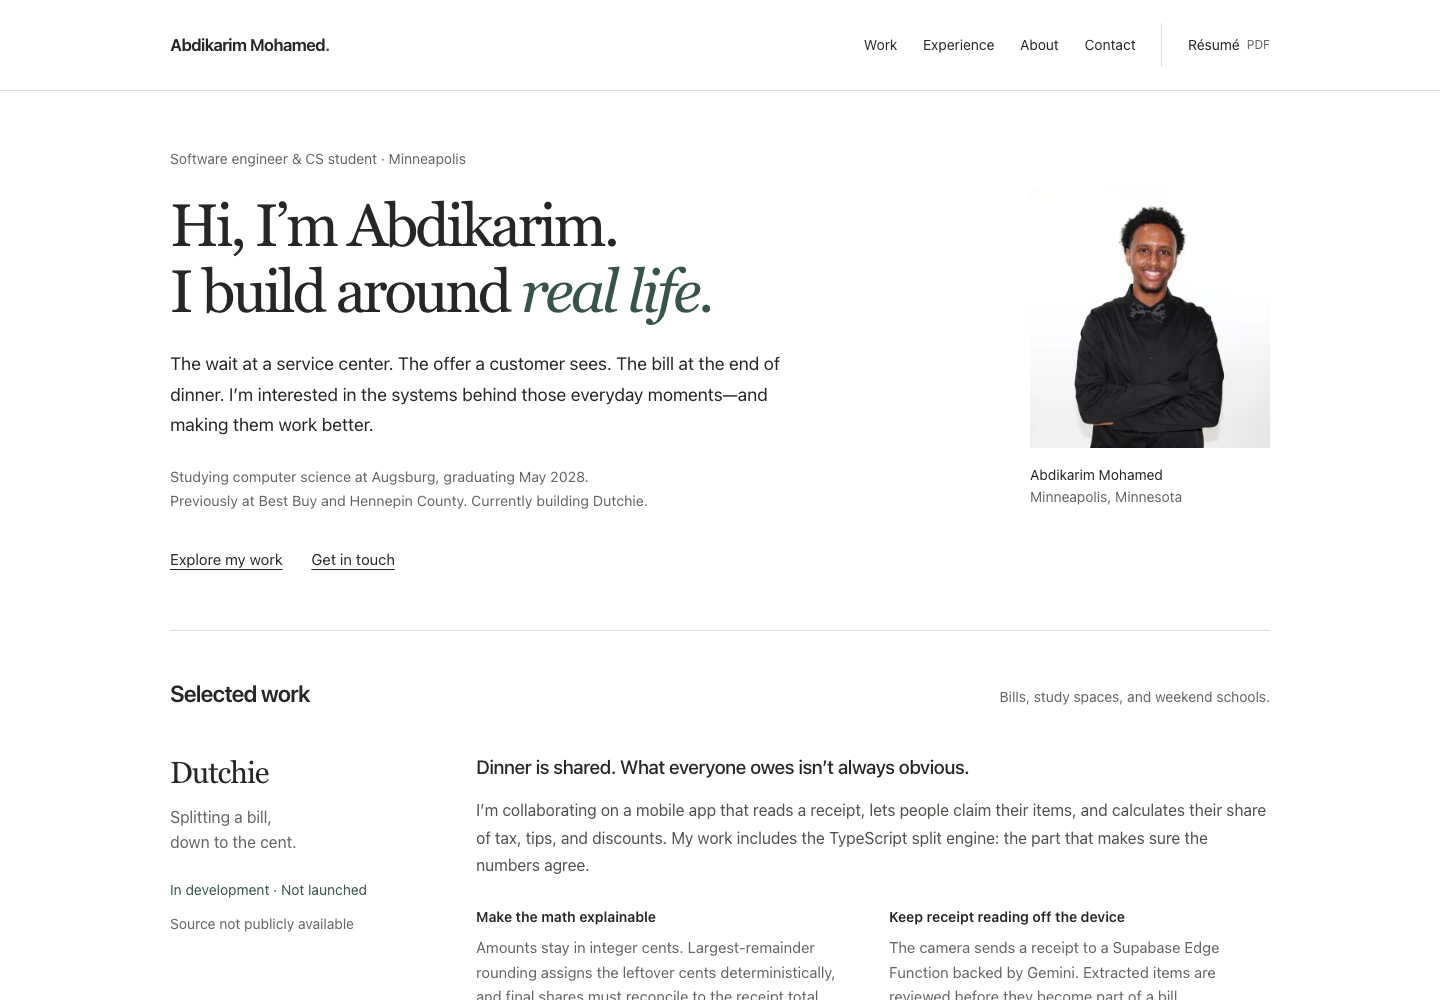
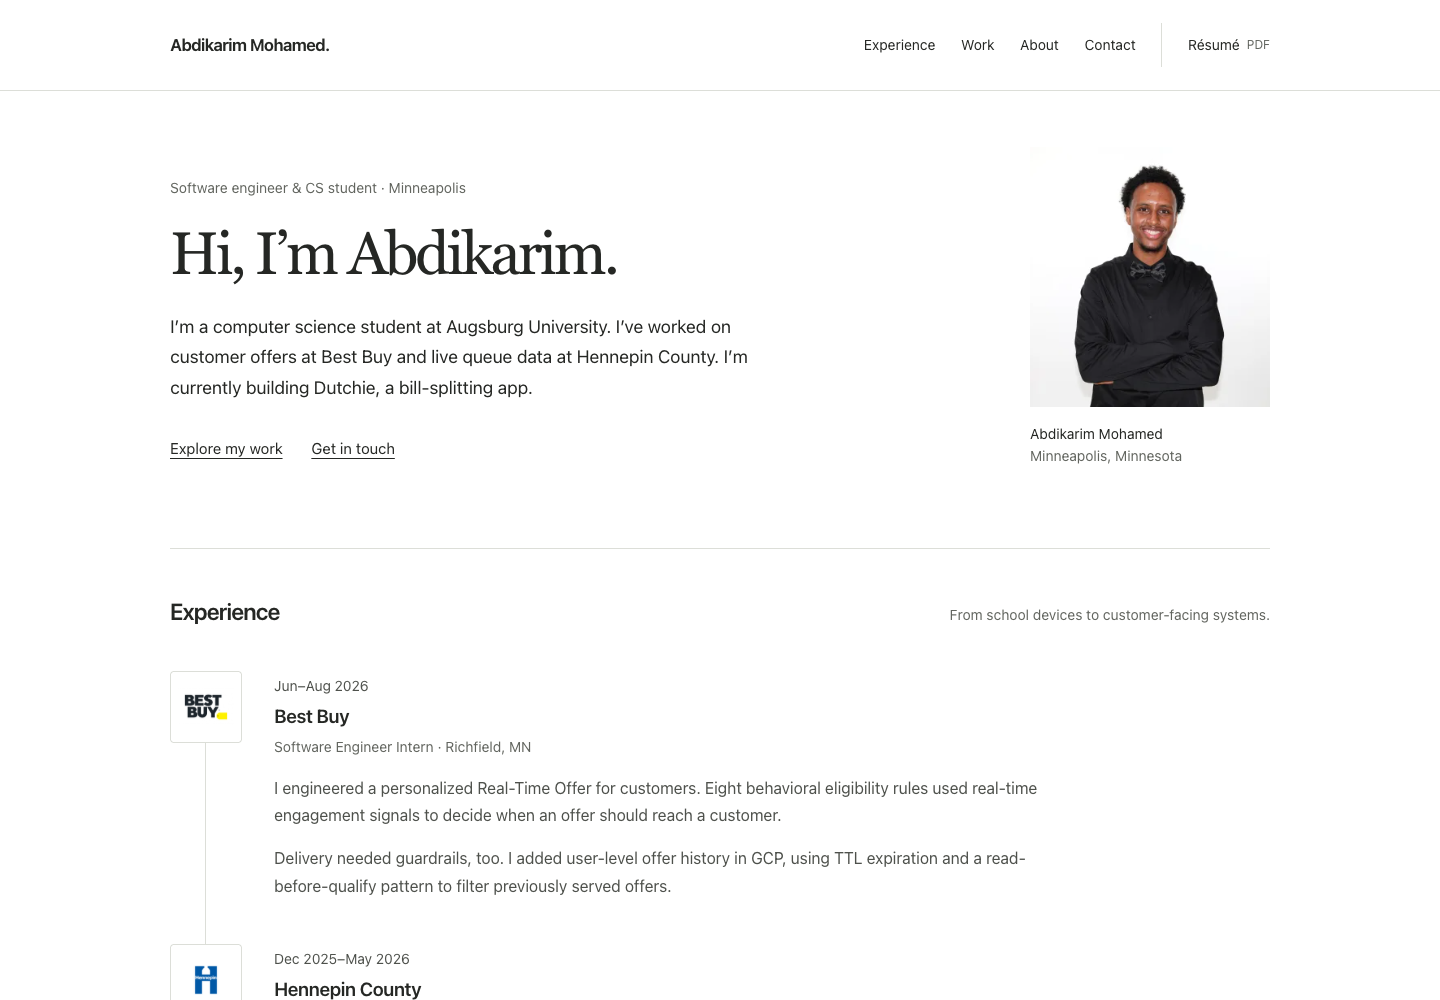
Remodel 11/20

diff --git a/index.html b/index.html
@@ -4,14 +4,14 @@
     <meta charset="utf-8" />
     <meta name="viewport" content="width=device-width, initial-scale=1" />
     <meta name="theme-color" content="#ffffff" />
-    <title>Abdikarim Mohamed — Software Engineer · Minneapolis</title>
+    <title>Abdikarim Mohamed · Software Engineer · Minneapolis</title>
     <meta
       name="description"
       content="Software engineering work by Abdikarim Mohamed: real-time offers at Best Buy, public-service systems at Hennepin County, and thoughtful personal projects."
     />
     <link rel="canonical" href="https://abdikarim19.netlify.app/" />
     <meta property="og:type" content="website" />
-    <meta property="og:title" content="Abdikarim Mohamed — Software Engineer" />
+    <meta property="og:title" content="Abdikarim Mohamed · Software Engineer" />
     <meta
       property="og:description"
       content="Practical software, from real-time offers to the everyday details of splitting a bill. Selected work, experience, and contact."
@@ -43,7 +43,7 @@
           >Abdikarim Mohamed<span aria-hidden="true">.</span></a
         >
         <nav aria-label="Main navigation">
-          <a href="#work">Work</a><a href="#experience">Experience</a
+          <a href="#experience">Experience</a><a href="#work">Work</a
           ><a href="#about">About</a><a href="#contact">Contact</a>
           <a class="resume-nav" href="./assets/Abdikarim-Mohamed-Resume.pdf"
             >Résumé <span class="file-type">PDF</span></a
@@ -57,17 +57,11 @@
           <p class="eyebrow">
             Software engineer &amp; CS student · Minneapolis
           </p>
-          <h1 id="intro-heading">
-            Hi, I’m Abdikarim.<br />I build around <em>real life.</em>
-          </h1>
+          <h1 id="intro-heading">Hi, I’m Abdikarim.</h1>
           <p class="intro-text">
-            The wait at a service center. The offer a customer sees. The bill at
-            the end of dinner. I’m interested in the systems behind those
-            everyday moments—and making them work better.
-          </p>
-          <p class="now">
-            Studying computer science at Augsburg, graduating May 2028.<br />Previously
-            at Best Buy and Hennepin County. Currently building Dutchie.
+            I’m a computer science student at Augsburg University. I’ve worked
+            on customer offers at Best Buy and live queue data at Hennepin
+            County. I’m currently building Dutchie, a bill-splitting app.
           </p>
           <div class="intro-links">
             <a href="#work">Explore my work</a
@@ -86,6 +80,95 @@
             Abdikarim Mohamed<br /><span>Minneapolis, Minnesota</span>
           </figcaption>
         </figure>
+      </section>
+      <section
+        id="experience"
+        class="section"
+        aria-labelledby="experience-heading"
+      >
+        <div class="section-heading">
+          <h2 id="experience-heading">Experience</h2>
+          <p>From school devices to customer-facing systems.</p>
+        </div>
+        <ol class="experience-list">
+          <li class="experience-row">
+            <div class="timeline-logo">
+              <img
+                src="./assets/best-buy-logo.png"
+                width="64"
+                height="64"
+                alt=""
+                loading="lazy"
+              />
+            </div>
+            <div class="experience-content">
+              <p class="experience-date">Jun–Aug 2026</p>
+              <h3>Best Buy</h3>
+              <p class="role">Software Engineer Intern · Richfield, MN</p>
+              <p>
+                I engineered a personalized Real-Time Offer for customers. Eight
+                behavioral eligibility rules used real-time engagement signals
+                to decide when an offer should reach a customer.
+              </p>
+              <p>
+                Delivery needed guardrails, too. I added user-level offer
+                history in GCP, using TTL expiration and a read-before-qualify
+                pattern to filter previously served offers.
+              </p>
+            </div>
+          </li>
+          <li class="experience-row">
+            <div class="timeline-logo">
+              <img
+                src="./assets/hennepin-logo.webp"
+                width="64"
+                height="64"
+                alt=""
+                loading="lazy"
+              />
+            </div>
+            <div class="experience-content">
+              <p class="experience-date">Dec 2025–May 2026</p>
+              <h3>Hennepin County</h3>
+              <p class="role">Software Engineering Intern · Minneapolis, MN</p>
+              <p>
+                I integrated Qmatic Orchestra REST APIs into a legacy Java
+                application so county websites and service-center displays could
+                show live queue data instead of delayed reporting.
+              </p>
+              <p>
+                The work supported queue visibility for
+                <strong
+                  >1,000+ daily visitors across five service centers</strong
+                >. This made the same current information available wherever
+                people checked.
+              </p>
+            </div>
+          </li>
+          <li class="experience-row">
+            <div class="timeline-logo">
+              <img
+                src="./assets/ais-logo.jpg"
+                width="64"
+                height="64"
+                alt=""
+                loading="lazy"
+              />
+            </div>
+            <div class="experience-content">
+              <p class="experience-date">Jun 2022–Aug 2023</p>
+              <h3>Alternative Information Systems</h3>
+              <p class="role">Technical Program Manager Intern · Buffalo, NY</p>
+              <p>
+                I coordinated five technicians with site IT leads to complete
+                device migrations at <strong>15 public schools</strong> on time.
+                Agile sprints, asset tracking, and secure wiping supported
+                deployment of
+                <strong>20,000+ refurbished laptops per summer</strong>.
+              </p>
+            </div>
+          </li>
+        </ol>
       </section>
       <section id="work" class="section" aria-labelledby="work-heading">
         <div class="section-heading">
@@ -212,69 +295,6 @@
           </div>
         </article>
       </section>
-      <section
-        id="experience"
-        class="section"
-        aria-labelledby="experience-heading"
-      >
-        <div class="section-heading">
-          <h2 id="experience-heading">Experience</h2>
-          <p>From school devices to customer-facing systems.</p>
-        </div>
-        <ol class="experience-list">
-          <li class="experience-row">
-            <div class="experience-date">Jun–Aug 2026</div>
-            <div>
-              <h3>Best Buy</h3>
-              <p class="role">Software Engineer Intern · Richfield, MN</p>
-              <p>
-                I engineered a personalized Real-Time Offer that generated
-                <strong>$110K in incremental revenue</strong>. Eight behavioral
-                eligibility rules used real-time engagement signals to decide
-                when an offer should reach a customer.
-              </p>
-              <p>
-                Delivery needed guardrails, too. I added user-level offer
-                history in GCP, using TTL expiration and a read-before-qualify
-                pattern to filter previously served offers.
-              </p>
-            </div>
-          </li>
-          <li class="experience-row">
-            <div class="experience-date">Dec 2025–May 2026</div>
-            <div>
-              <h3>Hennepin County</h3>
-              <p class="role">Software Engineering Intern · Minneapolis, MN</p>
-              <p>
-                I integrated Qmatic Orchestra REST APIs into a legacy Java
-                application so county websites and service-center displays could
-                show live queue data instead of delayed reporting.
-              </p>
-              <p>
-                The work supported queue visibility for
-                <strong
-                  >1,000+ daily visitors across five service centers</strong
-                >—making the same current information available wherever people
-                checked.
-              </p>
-            </div>
-          </li>
-          <li class="experience-row">
-            <div class="experience-date">Jun 2022–Aug 2023</div>
-            <div>
-              <h3>Alternative Information Systems</h3>
-              <p class="role">Technical Program Manager Intern · Buffalo, NY</p>
-              <p>
-                I coordinated five technicians with site IT leads to complete
-                device migrations at <strong>15 public schools</strong> on time.
-                Agile sprints, asset tracking, and secure wiping supported
-                deployment of
-                <strong>20,000+ refurbished laptops per summer</strong>.
-              </p>
-            </div>
-          </li>
-        </ol>
-      </section>
       <section id="about" class="section" aria-labelledby="about-heading">
         <div class="section-heading">
           <h2 id="about-heading">A little more context</h2>
@@ -308,11 +328,7 @@
           <div class="about-notes">
             <div>
               <h3>Augsburg University</h3>
-              <p>
-                B.S. Computer Science · Data Science minor<br /><strong
-                  >Expected May 2028</strong
-                >
-              </p>
+              <p>B.S. Computer Science · Data Science minor</p>
               <p class="secondary">
                 Coursework in AI, data structures and algorithms,
                 object-oriented programming, and software engineering.

diff --git a/styles.css b/styles.css
@@ -5,7 +5,7 @@
   --muted: #62655f;
   --line: #dcded8;
   --paper: #fff;
-  --accent: #365447;
+  --accent: #252724;
   --measure: 1100px;
   font-family: -apple-system, BlinkMacSystemFont, "Segoe UI", sans-serif;
   color: var(--ink);
@@ -25,8 +25,8 @@ body {
   -webkit-font-smoothing: antialiased;
 }
 ::selection {
-  background: #dae6de;
-  color: #202a23;
+  background: #e5e5e5;
+  color: #252724;
 }
 img {
   display: block;
@@ -300,14 +300,45 @@ dd {
   list-style: none;
 }
 .experience-row {
+  position: relative;
   display: grid;
-  grid-template-columns: 250px minmax(0, 1fr);
-  gap: 3.5rem;
+  grid-template-columns: 72px minmax(0, 1fr);
+  gap: 2rem;
   padding-bottom: 2.75rem;
 }
+.experience-row:not(:last-child)::before {
+  content: "";
+  position: absolute;
+  top: 72px;
+  bottom: 0;
+  left: 35px;
+  width: 1px;
+  background: var(--line);
+}
+.timeline-logo {
+  display: grid;
+  place-items: center;
+  width: 72px;
+  height: 72px;
+  padding: 7px;
+  border: 1px solid var(--line);
+  border-radius: 4px;
+  background: white;
+}
+.timeline-logo img {
+  width: 100%;
+  height: 100%;
+  object-fit: contain;
+}
+.experience-content {
+  max-width: 800px;
+}
+.experience-content h3 {
+  margin-top: 0.4rem;
+}
 .experience-row + .experience-row {
-  border-top: 1px solid var(--line);
-  padding-top: 2.5rem;
+  border-top: 0;
+  padding-top: 0;
 }
 .experience-date {
   font-size: 0.875rem;
@@ -419,8 +450,7 @@ dd {
     width: 190px;
     height: 230px;
   }
-  .project,
-  .experience-row {
+  .project {
     grid-template-columns: 190px minmax(0, 1fr);
     gap: 2rem;
   }
@@ -496,8 +526,7 @@ dd {
   .section-heading p {
     margin-top: 0.5rem;
   }
-  .project,
-  .experience-row {
+  .project {
     grid-template-columns: 1fr;
     gap: 1.4rem;
   }
@@ -520,7 +549,17 @@ dd {
     font-size: 1.75rem;
   }
   .experience-row {
-    gap: 0.6rem;
+    grid-template-columns: 48px minmax(0, 1fr);
+    gap: 1rem;
+  }
+  .timeline-logo {
+    width: 48px;
+    height: 48px;
+    padding: 4px;
+  }
+  .experience-row:not(:last-child)::before {
+    top: 48px;
+    left: 23px;
   }
   .about-grid,
   .contact {
